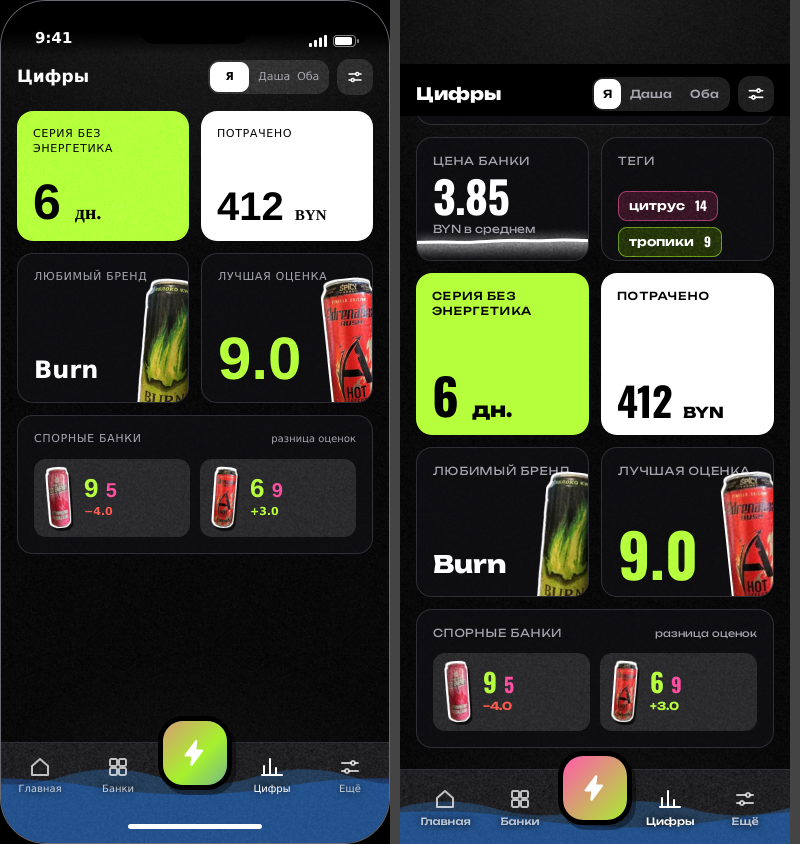
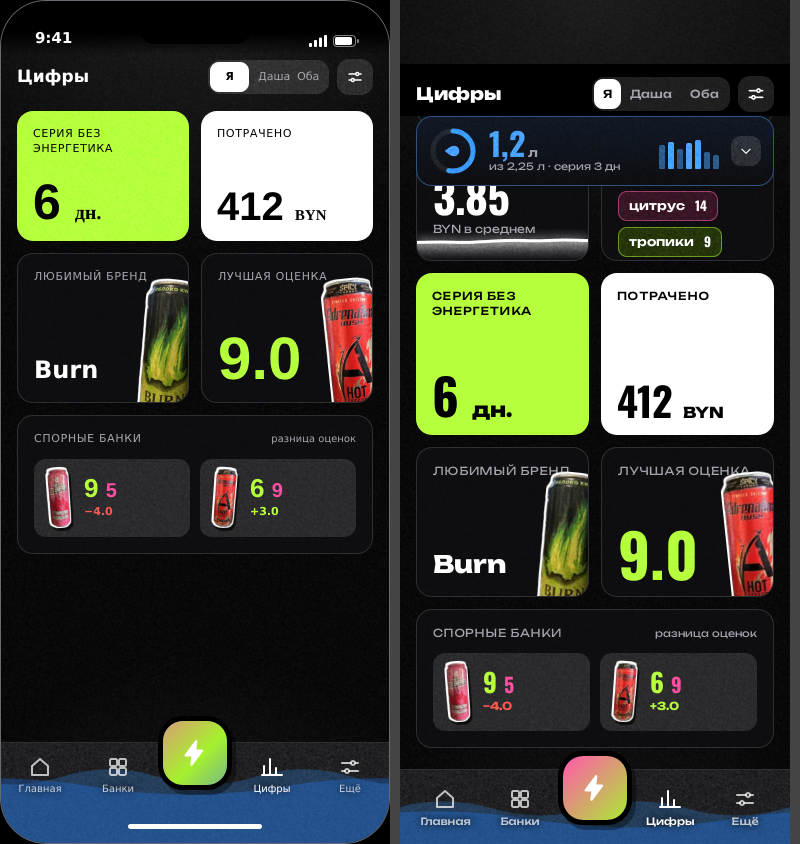
feat: ScreenWaterStats (водяная сводка на «Цифрах»: свёрнутая и развёрнутые виды)
Claude-Session: https://claude.ai/code/session_01CEhpqr23L63jGpoj5KjxP3

Changed region(s): [[0.5312, 0.1232, 0.9688, 0.2464]]

diff --git a/src/stats/WaterCard.svelte b/src/stats/WaterCard.svelte
@@ -1,0 +1,61 @@
+<!-- Водяная сводка на «Цифрах» (ScreenWaterStats): свёрнутая 70 px и развёрнутая (Нед / Мес / Год, один Я/Даша или «Оба»). Подчиняется переключателю страницы. -->
+<script lang="ts">
+  import './water.css';
+  import Ico from '../ui/Ico.svelte';
+  import { getWater } from './source';
+  import { stats } from './statsState.svelte';
+
+  const w = getWater();
+  const DROP = '<path d="M12 2.5c3.6 4.6 6 7.6 6 11a6 6 0 0 1-12 0c0-3.4 2.4-6.4 6-11z" fill="currentColor"/>';
+  const view = $derived(stats.who === 2 ? 'both' : stats.period === 2 ? 'year' : 'week');
+  const mix = (p: number) => (p < 0 ? 'transparent' : p === 0 ? 'var(--f2)' : `color-mix(in srgb,#2f8cff ${p}%,var(--f2))`);
+</script>
+
+{#if !stats.water}
+  <div class="u-card wc wc-c" role="button" tabindex="0" aria-label="Развернуть воду" onclick={() => (stats.water = true)} onkeydown={e => e.key === 'Enter' && (stats.water = true)}>
+    <div class="wc-ring"><svg viewBox="0 0 48 48" width="48" height="48" fill="none" stroke-width="5" stroke-linecap="round"><circle cx="24" cy="24" r="20" stroke="var(--f2)" /><circle cx="24" cy="24" r="20" stroke="#3a9bff" stroke-dasharray="{w.collapsed.ring} 200" /></svg>
+      <span class="wc-drop"><Ico d={DROP} s={18} /></span></div>
+    <div class="wc-mid"><div class="num wc-big">{w.collapsed.big}<small>{w.collapsed.unit}</small></div><div class="wc-sub">{w.collapsed.sub}</div></div>
+    <div class="wc-mini">{#each w.collapsed.bars as [h, o]}<i style="height:{h}px;opacity:{o}"></i>{/each}</div>
+    <span class="u-ib wc-ar"><Ico d={'<path d="M9 5l7 7-7 7"/>'} s={14} sw={2.6} /></span>
+  </div>
+{:else}
+  <div class="u-card wc wc-o">
+    <div class="wc-hd"><span class="wc-ttl"><span class="wc-dr"><Ico d={DROP} s={14} /></span>{w.title}</span>
+      <div class="wc-r"><div class="u-seg wc-seg">{#each w.periods as p, i}<button class:on={stats.period === i} onclick={() => (stats.period = i)}>{p}</button>{/each}</div>
+        <button class="u-ib wc-up" aria-label="Свернуть" onclick={() => (stats.water = false)}><span class="wc-rot"><Ico d={'<path d="M9 5l7 7-7 7"/>'} s={14} sw={2.6} /></span></button></div></div>
+
+    {#if view === 'week'}
+      {@const d = w.week}
+      <div class="wc-row"><div class="num wc-n52">{d.big}<small>{d.unit}</small></div><span class="wc-dl">{d.delta}</span></div>
+      <div class="wc-hs"><div class="wc-gl"><span>{w.goal}</span></div>
+        {#each d.days as l, i}<div class="wc-bc" class:td={i === d.today}><div class="wc-bb"><i class="wc-g" style="height:{d.h[i]}px;opacity:{d.op[i]}"></i></div><span>{l}</span></div>{/each}</div>
+      <div class="wc-hmw"><div class="wc-cap">{d.heatTitle}</div>
+        <div class="wc-hm" style="grid-template-columns:repeat(6,1fr)">{#each d.heat as p}<i style="height:22px;background:{mix(p)}"></i>{/each}</div>
+        <div class="wc-hm wc-lbl" style="grid-template-columns:repeat(6,1fr)">{#each d.slots as s}<span>{s}</span>{/each}</div></div>
+      <div class="wc-stats">{#each d.stats as [a, b, c]}<div class="wc-st"><small>{a}</small><b>{b}</b><small>{c}</small></div>{/each}</div>
+      <div class="wc-ins"><span class="wc-dr2"><Ico d={DROP} s={16} /></span>{d.insight}</div>
+    {:else if view === 'both'}
+      {@const d = w.both}
+      <div class="wc-row both"><div><div class="num u-me wc-n40">{d.me[0]}<small>л</small></div><div class="wc-k">{d.me[1]}</div></div>
+        <div><div class="num u-pa wc-n40">{d.pa[0]}<small>л</small></div><div class="wc-k">{d.pa[1]}</div></div><span class="wc-dl pa">{d.delta}</span></div>
+      <div class="wc-hs"><div class="wc-gl"><span>{w.goal}</span></div>
+        {#each d.weeks as l, i}<div class="wc-bc gap2" class:td={i === d.today}><div class="wc-bb"><i style="height:{d.hMe[i]}px;background:var(--me);opacity:{d.oMe[i]}"></i><i style="height:{d.hPa[i]}px;background:var(--partner);opacity:{d.oPa[i]}"></i></div><span>{l}</span></div>{/each}</div>
+      <div class="wc-hmw"><div class="wc-cap wc-cap2"><span>{d.calTitle}</span><span class="wc-lg">{d.legend[0]} <i style="background:{mix(28)}"></i><i style="background:{mix(52)}"></i><i style="background:{mix(100)}"></i> {d.legend[1]}</span></div>
+        <div class="wc-hm wc-lbl" style="grid-template-columns:repeat(7,1fr)">{#each d.dows as s}<span>{s}</span>{/each}</div>
+        <div class="wc-hm" style="grid-template-columns:repeat(7,1fr)">{#each d.cal as p}<i style="height:15px;background:{mix(p)}"></i>{/each}</div></div>
+      <div class="wc-stats">{#each d.stats as [a, b, c]}<div class="wc-st"><small>{a}</small><b>{b}</b><small>{c}</small></div>{/each}</div>
+      <div class="wc-ins"><span class="wc-dr2"><Ico d={DROP} s={16} /></span>{d.insight}</div>
+    {:else}
+      {@const d = w.year}
+      <div class="wc-row"><div class="num wc-n52">{d.big}<small>{d.unit}</small></div><span class="wc-dl">{d.delta}</span></div>
+      <div class="wc-hs"><div class="wc-gl"><span>{w.goal}</span></div>
+        {#each d.months as [h, o, l], i}<div class="wc-bc" class:td={i === d.today}><div class="wc-bb"><i class="wc-g" style="height:{h}px;opacity:{o}"></i></div><span>{l}</span></div>{/each}</div>
+      <div class="wc-hmw"><div class="wc-cap wc-cap2"><span>{d.heatTitle}</span><span class="wc-lg">{d.legend[0]} <i style="background:{mix(28)}"></i><i style="background:{mix(52)}"></i><i style="background:{mix(100)}"></i> {d.legend[1]}</span></div>
+        <div class="wc-hm wc-yr">{#each d.heat as p}<i style="background:{mix(p)}"></i>{/each}</div>
+        <div class="wc-marks">{#each d.marks as m}<span>{m}</span>{/each}</div></div>
+      <div class="wc-stats">{#each w.week.stats as [a, b, c]}<div class="wc-st"><small>{a}</small><b>{b}</b><small>{c}</small></div>{/each}</div>
+      <div class="wc-ins"><span class="wc-dr2"><Ico d={DROP} s={16} /></span>{w.week.insight}</div>
+    {/if}
+  </div>
+{/if}

diff --git a/src/demo-ui/waterStats.ts b/src/demo-ui/waterStats.ts
@@ -1,0 +1,29 @@
+// MOCK-DEMO: фикстуры водяной сводки «Цифр» (ScreenWaterStats): свернутая карточка и три развёрнутых вида из эталона; расчётов нет.
+import { registerStates } from './states';
+
+const BLUE = '#4aa3ff';
+export const WATER = {
+  title: 'Вода', blue: BLUE, goal: '2,25 л', periods: ['Нед', 'Мес', 'Год'],
+  collapsed: { ring: 67.0, big: '1,2', unit: 'л', sub: 'из 2,25 л · серия 3 дн', bars: [[24, 0.5], [27, 1.0], [20, 0.5], [26, 1.0], [29, 1.0], [17, 0.5], [14, 0.5]] },
+  /** «Нед», Я: среднее в день, дельта, столбики по дням, тепловая «когда пьёшь» по шести слотам. */
+  week: { big: '1,9', unit: 'л в день', delta: '+0,2 л к прошлой', days: ['Пн', 'Вт', 'Ср', 'Чт', 'Пт', 'Сб', 'Вс'], h: [59, 67, 50, 63, 73, 42, 34], op: [0.5, 1, 0.5, 1, 1, 0.5, 0.5], today: 6,
+    heatTitle: 'Когда пьёшь', slots: ['6–9', '9–12', '12–15', '15–18', '18–21', '21–24'], heat: [38, 72, 79, 65, 52, 31],
+    stats: [['Серия в норме', '3 дня', 'рекорд 12'], ['Дней в норме', '4 из 7', '57%'], ['Лучший день', 'Чт', '2,6 л']] as [string, string, string][],
+    insight: 'На один энергетик приходится 640 мл воды · пик питья с 12 до 15' },
+  /** «Мес», Оба: два числа, парные столбцы по неделям, календарь «оба в норме». */
+  both: { me: ['1,9', 'Я в день'], pa: ['2,1', 'Даша в день'], delta: 'Даша +0,2 л', weeks: ['1–7', '8–14', '15–21', '22–28', '29–30'],
+    hMe: [55, 61, 57, 64, 48], oMe: [0.55, 0.55, 0.55, 1, 0.55], hPa: [59, 63, 53, 67, 50], oPa: [0.55, 1, 0.55, 1, 0.55], today: 4,
+    calTitle: 'дни: оба в норме', legend: ['меньше', 'больше'], dows: ['Пн', 'Вт', 'Ср', 'Чт', 'Пт', 'Сб', 'Вс'], cal: [0, 0, 0, 52, 52, 52, 52, 52, 52, 0, 52, 52, 52, 52, 52, 52, 52, 0, 0, 0, 0, 0, 0, 0, 0, 0, 0, 0, 52, 52, -1, -1, -1, -1, -1],
+    stats: [['Вместе в норме', '3 дня', 'из 7'], ['Серия обоих', '2 дн', 'рекорд 9'], ['Разница', '12%', 'в пользу Даши']] as [string, string, string][],
+    insight: 'На один энергетик у вас приходится 640 мл воды · пик питья с 12 до 15' },
+  /** «Год», Я: двенадцать месяцев и тепловая карта 52 недели × 7 дней. */
+  year: { big: '2,1', unit: 'л в день', delta: '+0,2 л к прошлой', months: [[55, 0.5, "Я"], [56, 0.5, "Ф"], [59, 0.5, "М"], [62, 0.5, "А"], [66, 1.0, "М"], [67, 1.0, "И"], [70, 1.0, "И"], [69, 1.0, "А"], [64, 1.0, "С"], [60, 0.5, "О"], [59, 0.5, "Н"], [62, 0.5, "Д"]], today: 9, heatTitle: 'каждый день года', legend: ['меньше', 'больше'],
+    heat: [100, 100, 100, 18, 22, 25, 29, 32, 36, 39, 43, 46, 50, 54, 57, 61, 64, 68, 71, 75, 78, 82, 85, 100, 100, 100, 100, 100, 18, 22, 25, 29, 32, 36, 39, 43, 46, 50, 53, 57, 60, 64, 67, 71, 74, 78, 81, 85, 100, 100, 100, 100, 100, 18, 21, 25, 28, 32, 35, 39, 42, 46, 49, 53, 56, 60, 64, 67, 71, 74, 78, 81, 85, 100, 100, 100, 100, 100, 100, 21, 24, 28, 32, 35, 39, 42, 46, 49, 53, 56, 60, 63, 67, 70, 74, 77, 81, 84, 100, 100, 100, 100, 100, 100, 21, 24, 28, 31, 35, 38, 42, 45, 49, 52, 56, 59, 63, 66, 70, 74, 77, 81, 84, 100, 100, 100, 100, 100, 100, 20, 24, 27, 31, 34, 38, 42, 45, 49, 52, 56, 59, 63, 66, 70, 73, 77, 80, 84, 100, 100, 100, 100, 100, 100, 20, 24, 27, 31, 34, 38, 41, 45, 48, 52, 55, 59, 62, 66, 69, 73, 76, 80, 84, 100, 100, 100, 100, 100, 100, 20, 23, 27, 30, 34, 37, 41, 44, 48, 52, 55, 59, 62, 66, 69, 73, 76, 80, 83, 100, 100, 100, 100, 100, 100, 20, 23, 27, 30, 34, 37, 41, 44, 48, 51, 55, 58, 62, 65, 69, 72, 76, 79, 83, 100, 100, 100, 100, 100, 100, 19, 23, 26, 30, 33, 37, 40, 44, 47, 51, 54, 58, 62, 65, 69, 72, 76, 79, 83, 100, 100, 100, 100, 100, 100, 19, 22, 26, 30, 33, 37, 40, 44, 47, 51, 54, 58, 61, 65, 68, 72, 75, 79, 82, 100, 100, 100, 100, 100, 100, 19, 22, 26, 29, 33, 36, 40, 43, 47, 50, 54, 57, 61, 64, 68, 72, 75, 79, 82, 100, 100, 100, 100, 100, 100, 18, 22, 25, 29, 32, 36, 40, 43, 47, 50, 54, 57, 61, 64, 68, 71, 75, 78, 82, 85, 100, 100, 100, 100, 100, 18, 22, 25, 29, 32, 36, 39, 43, 46, 50, 53, 57, 0, 0, 0, 0, 0, 0, 0, 0, 0, 0, 0, 0, 0, 0, 0, 0, 0, 0, 0, 0, 0, 0, 0], marks: ['янв', 'мар', 'май', 'июл', 'сен', 'ноя'] },
+};
+
+registerStates([
+  { screen: 'stats', state: 'water', label: 'Цифры · вода свёрнута (ScreenWaterStats, кадр 1)' },
+  { screen: 'stats', state: 'waterweek', label: 'Цифры · вода развёрнута: неделя, я (кадр 2)' },
+  { screen: 'stats', state: 'waterboth', label: 'Цифры · вода развёрнута: месяц, оба (кадр 3)' },
+  { screen: 'stats', state: 'wateryear', label: 'Цифры · вода развёрнута: год, я (кадр 4)' },
+]);

diff --git a/src/stats/water.css b/src/stats/water.css
@@ -1,0 +1,60 @@
+/* Водяная сводка (ScreenWaterStats). Значения из preview.html; классы wc-. Литералы цвета воды из эталона: #2f8cff, #3a9bff, #4aa3ff, #5cb0ff, #1f6fe8. */
+.wc { border-radius: 16px; border: 1px solid color-mix(in srgb, #2f8cff 38%, var(--line)); background: linear-gradient(180deg, color-mix(in srgb, #2f8cff 9%, var(--surface-100)), var(--surface-100)); position: relative; overflow: hidden; flex: none; z-index: 3; }
+.wc-c { display: flex; align-items: center; gap: 12px; padding: 10px 12px; height: 70px; cursor: pointer; }
+.wc-ring { position: relative; width: 48px; height: 48px; flex: none; }
+.wc-ring svg { transform: rotate(-90deg); }
+.wc-drop { position: absolute; inset: 0; display: grid; place-items: center; color: #4aa3ff; }
+.wc-mid { flex: 1; min-width: 0; }
+.wc-big { font-size: 32px; color: #4aa3ff; }
+.wc-big small { font: 600 12px var(--font-display); margin-left: 3px; color: var(--ink-muted); }
+.wc-sub { font-size: 10px; color: var(--ink-muted); }
+.wc-mini { display: flex; align-items: flex-end; gap: 3px; height: 36px; flex: none; }
+.wc-mini i { width: 6px; border-radius: 2px 2px 1px 1px; background: #4aa3ff; display: block; }
+.wc-ar { width: 30px; height: 30px; border-radius: 10px; flex: none; }
+.wc-ar svg { transform: rotate(90deg); }
+.wc-o { padding: 12px 14px 14px; display: flex; flex-direction: column; gap: 10px; }
+.wc-hd { display: flex; align-items: center; justify-content: space-between; }
+.wc-ttl { display: flex; align-items: center; gap: 6px; font-size: 11px; letter-spacing: .06em; text-transform: uppercase; color: var(--ink-muted); }
+.wc-dr { color: #4aa3ff; display: flex; }
+.wc-r { display: flex; align-items: center; gap: 8px; }
+.wc-seg { padding: 2px; }
+.wc-seg > button { min-height: 28px; padding: 0 10px; font-size: 11px; }
+.wc-up { width: 32px; height: 32px; border-radius: 10px; }
+.wc-rot { display: flex; transform: rotate(-90deg); }
+.wc-row { display: flex; align-items: flex-end; gap: 12px; }
+.wc-row.both { gap: 18px; }
+.wc-n52 { font-size: 52px; color: #4aa3ff; }
+.wc-n52 small { font: 600 14px var(--font-display); margin-left: 4px; color: var(--ink-muted); }
+.wc-n40 { font-size: 40px; }
+.wc-n40 small { font: 600 12px var(--font-display); margin-left: 3px; }
+.wc-k { font-size: 10px; color: var(--ink-muted); margin-top: 3px; }
+.wc-dl { margin-left: auto; margin-bottom: 6px; font-size: 11px; font-weight: 700; padding: 4px 9px; border-radius: 8px; background: color-mix(in srgb, #2f8cff 18%, transparent); color: #4aa3ff; }
+.wc-row.both .wc-dl { margin-bottom: 0; background: color-mix(in srgb, var(--partner-mark) 16%, transparent); color: var(--partner-mark); }
+.wc-hs { position: relative; display: flex; gap: 6px; align-items: flex-end; flex: none; height: 102px; }
+.wc-gl { position: absolute; left: 0; right: 0; bottom: 81px; border-top: 1.5px dashed color-mix(in srgb, var(--ink) 40%, transparent); z-index: 2; pointer-events: none; }
+.wc-gl span { position: absolute; right: 0; top: -15px; font: 600 9px/1 var(--font-numerals); color: var(--ink-muted); background: var(--surface-100); padding: 0 3px; }
+.wc-bc { flex: 1; display: flex; flex-direction: column; align-items: stretch; gap: 4px; min-width: 0; }
+.wc-bc.gap2 { gap: 2px; }
+.wc-bc span { font-size: 9px; color: var(--ink-muted); text-align: center; height: 14px; line-height: 14px; white-space: nowrap; }
+.wc-bc.td span { color: var(--ink); font-weight: 700; }
+.wc-bb { height: 84px; display: flex; align-items: flex-end; justify-content: center; gap: 2px; }
+.wc-bb i { display: block; flex: 1; max-width: 30px; border-radius: 5px 5px 2px 2px; }
+.wc-bb i.wc-g { background: linear-gradient(180deg, #5cb0ff, #1f6fe8); }
+.wc-hmw { display: flex; flex-direction: column; gap: 4px; flex: none; }
+.wc-cap { font-size: 10px; color: var(--ink-muted); }
+.wc-cap2 { display: flex; justify-content: space-between; }
+.wc-lg { display: flex; align-items: center; gap: 4px; font-size: 9px; color: var(--ink-muted); }
+.wc-lg i { width: 11px; height: 11px; border-radius: 3px; display: block; }
+.wc-hm { display: grid; gap: 3px; flex: none; }
+.wc-hm i { display: block; border-radius: 3px; }
+.wc-lbl { font-size: 9px; color: var(--ink-muted); }
+.wc-lbl span { text-align: center; }
+.wc-yr { grid-template-columns: repeat(52, 1fr); grid-auto-flow: column; grid-template-rows: repeat(7, 5.2px); gap: 1.4px; }
+.wc-yr i { height: 5.2px; border-radius: 1.5px; }
+.wc-marks { display: flex; justify-content: space-between; font-size: 9px; color: var(--ink-muted); }
+.wc-stats { display: flex; gap: 8px; }
+.wc-st { display: flex; flex-direction: column; gap: 2px; padding: 9px 11px; border-radius: 12px; background: var(--f2); flex: 1; min-width: 0; }
+.wc-st b { font: 700 22px/1 var(--font-numerals); }
+.wc-st small { font-size: 9px; color: var(--ink-muted); }
+.wc-ins { display: flex; align-items: center; gap: 8px; font-size: 11px; color: var(--ink-muted); line-height: 1.4; }
+.wc-dr2 { color: #4aa3ff; display: flex; flex: none; }

diff --git a/src/stats/Stats.svelte b/src/stats/Stats.svelte
@@ -13,14 +13,19 @@
   import StatsRatings from './StatsRatings.svelte';
   import StatsRecords from './StatsRecords.svelte';
   import { WHO } from './source';
+  import WaterCard from './WaterCard.svelte';
+  import { stats } from './statsState.svelte';
 
   let { go }: { go: (id: string) => void } = $props();
   $effect(() => registerGo(go));
   const forced = forcedState('stats');
-  let who = $state(0);
   let compact = $state(false);
   let sections: HTMLDivElement[] = [];
   const ORDER = ['top', 'brands', 'ratings', 'records'];
+  if (forced === 'water') stats.water = false;
+  else if (forced === 'waterweek') { stats.water = true; stats.who = 0; stats.period = 0; }
+  else if (forced === 'waterboth') { stats.water = true; stats.who = 2; stats.period = 1; }
+  else if (forced === 'wateryear') { stats.water = true; stats.who = 1; stats.period = 2; }
   let list: HTMLElement | null = null;
   const onscroll = () => { compact = (list?.scrollTop ?? 0) > 56; };
   onMount(() => {
@@ -35,12 +40,13 @@
 <div class="st">
   <header class="st-head" class:compact>
     <div class="st-top"><span class="st-title">Цифры</span>
-      {#if compact}<div class="st-hr"><div class="u-seg st-wseg">{#each WHO as w, i}<button class:on={who === i} onclick={() => (who = i)}>{w}</button>{/each}</div>
+      {#if compact}<div class="st-hr"><div class="u-seg st-wseg">{#each WHO as w, i}<button class:on={stats.who === i} onclick={() => (stats.who = i)}>{w}</button>{/each}</div>
         <button class="u-ib st-fb" aria-label="Фильтры" onclick={() => (cat.filtersOpen = true)}><Ico d={IC.filters} /></button></div>
       {:else}<button class="u-ib st-fb big" aria-label="Фильтры" onclick={() => (cat.filtersOpen = true)}><Ico d={IC.filters} /></button>{/if}
     </div>
-    {#if !compact}<div class="u-seg st-wseg big">{#each WHO as w, i}<button class:on={who === i} onclick={() => (who = i)}>{w}</button>{/each}</div>{/if}
+    {#if !compact}<div class="u-seg st-wseg big">{#each WHO as w, i}<button class:on={stats.who === i} onclick={() => (stats.who = i)}>{w}</button>{/each}</div>{/if}
   </header>
+  <div class="st-water"><WaterCard /></div>
   <div class="st-sec" bind:this={sections[0]}><StatsDrunk onchart={() => go('chart')} /></div>
   <div class="st-sec" bind:this={sections[1]}><StatsBrands /></div>
   <div class="st-sec" bind:this={sections[2]}><StatsRatings /></div>

diff --git a/src/stats/stats.css b/src/stats/stats.css
@@ -101,3 +101,5 @@
 .st-dnum { font-size: 26px; line-height: 1; }
 .st-diff { font-size: 11px; color: var(--me-mark); font-weight: 700; margin-top: 4px; }
 .st-diff.bad { color: var(--danger); }
+.st-water { position: sticky; top: 52px; z-index: 4; margin: 0 0 0; }
+.st-head.compact + .st-water { top: 44px; }

diff --git a/src/stats/statsState.svelte.ts b/src/stats/statsState.svelte.ts
@@ -1,0 +1,2 @@
+// Общий выбор «Я / Даша / Оба» и состояние водяной карточки на «Цифрах»: карточка воды подчиняется переключателю страницы.
+export const stats = $state({ who: 0, water: false, period: 0 });

diff --git a/src/stats/source.ts b/src/stats/source.ts
@@ -6,3 +6,5 @@ export const getDrunk = () => STATS_DRUNK;
 export const getBrands = () => STATS_BRANDS;
 export const getRatings = () => STATS_RATINGS;
 export const getRecords = () => STATS_RECORDS;
+import { WATER } from '../demo-ui/waterStats';  // MOCK-DEMO
+export const getWater = () => WATER;

diff --git a/src/demo-ui/statesAll.ts b/src/demo-ui/statesAll.ts
@@ -9,3 +9,4 @@ import './canOfDay';
 import './stats';
 import './activeChart';
 import './priceSheet';
+import './waterStats';

diff --git a/docs-src/reports/S2/ScreenWaterStats.md b/docs-src/reports/S2/ScreenWaterStats.md
@@ -8,7 +8,7 @@
 - Классы: `.scb` `.top` `.ib` `.seg` `.on` `.wc2` `.num` `.card` `.sec` `.me` `.mut` `.pa`
 - Inline style: 70 мест (их значения надо перенести в классы дословно)
 - Интерактивные элементы: 0 тегов + нажимаемые по виду (.chip, .ib, .cta, .seg b, .ro, .rr, плитки, карточки)
-- Статус: [ ] вид  [ ] данные  [ ] нажатия  [ ] состояние достижимо в Лаборатории
+- Статус: [x] вид  [x] данные  [x] нажатия  [x] состояние достижимо в Лаборатории
 
 ## Кадр 2
 
@@ -16,7 +16,7 @@
 - Классы: `.scb` `.top` `.ib` `.seg` `.on` `.wc2` `.num` `.hs` `.gl2` `.bc` `.bb2` `.td` `.hm` `.wst` `.card` `.sec` `.me` `.mut` `.pa`
 - Inline style: 110 мест (их значения надо перенести в классы дословно)
 - Интерактивные элементы: 0 тегов + нажимаемые по виду (.chip, .ib, .cta, .seg b, .ro, .rr, плитки, карточки)
-- Статус: [ ] вид  [ ] данные  [ ] нажатия  [ ] состояние достижимо в Лаборатории
+- Статус: [x] вид  [x] данные  [x] нажатия  [x] состояние достижимо в Лаборатории
 
 ## Кадр 3
 
@@ -24,7 +24,7 @@
 - Классы: `.scb` `.top` `.ib` `.seg` `.on` `.wc2` `.num` `.me` `.pa` `.hs` `.gl2` `.bc` `.bb2` `.td` `.lg` `.hm` `.wst` `.card` `.sec` `.mut`
 - Inline style: 146 мест (их значения надо перенести в классы дословно)
 - Интерактивные элементы: 0 тегов + нажимаемые по виду (.chip, .ib, .cta, .seg b, .ro, .rr, плитки, карточки)
-- Статус: [ ] вид  [ ] данные  [ ] нажатия  [ ] состояние достижимо в Лаборатории
+- Статус: [x] вид  [x] данные  [x] нажатия  [x] состояние достижимо в Лаборатории
 
 ## Кадр 4
 
@@ -32,7 +32,7 @@
 - Классы: `.scb` `.top` `.ib` `.seg` `.on` `.wc2` `.num` `.hs` `.gl2` `.bc` `.bb2` `.td` `.lg` `.hm` `.wst` `.card` `.sec` `.me` `.mut` `.pa`
 - Inline style: 480 мест (их значения надо перенести в классы дословно)
 - Интерактивные элементы: 0 тегов + нажимаемые по виду (.chip, .ib, .cta, .seg b, .ro, .rr, плитки, карточки)
-- Статус: [ ] вид  [ ] данные  [ ] нажатия  [ ] состояние достижимо в Лаборатории
+- Статус: [x] вид  [x] данные  [x] нажатия  [x] состояние достижимо в Лаборатории
 
 ## Анимации (@keyframes), используемые этим экраном
 
